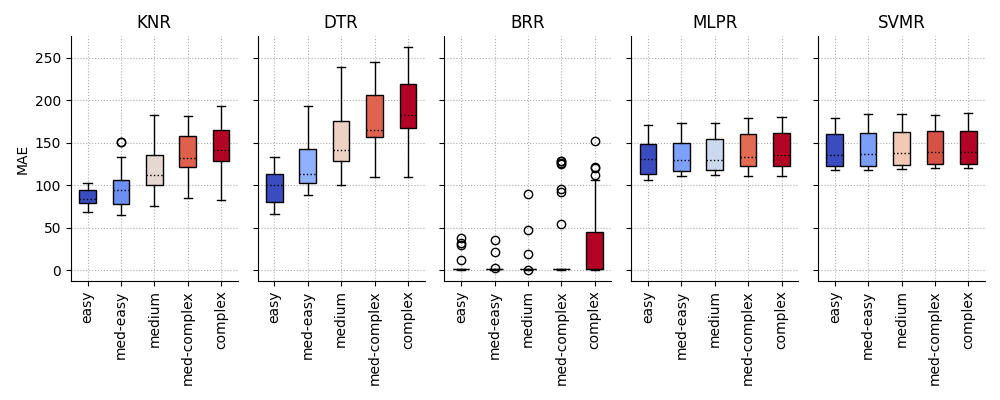
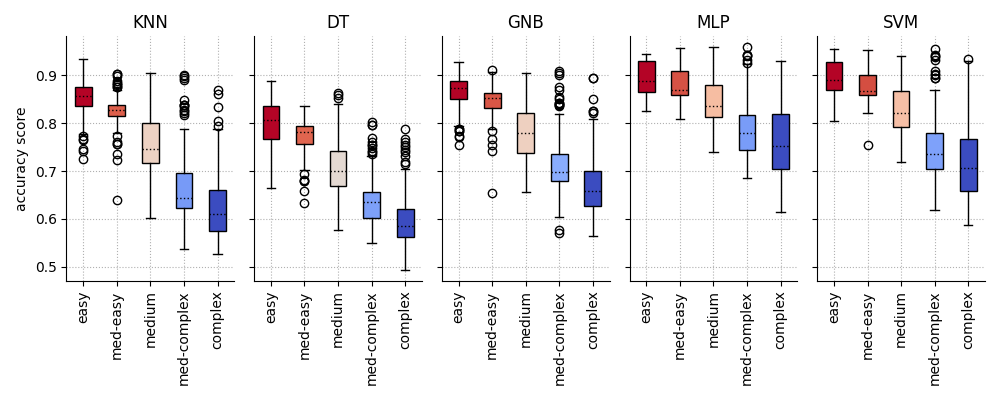
figures clf & reg

diff --git a/e2_combined_clf_vis.py b/e2_combined_clf_vis.py
@@ -17,8 +17,10 @@ for clf_id, clf in enumerate(clfs):
     
     rc = res_clf[:,:,clf_id]
     mrc = np.mean(rc, axis=0)
-    mrc -= 0.5
-    mrc /=0.5
+    # mrc -= 0.5
+    # mrc /=0.5
+    mrc -= np.min(mrc)
+    mrc /= np.max(mrc)
     colors = plt.cm.coolwarm(mrc)
 
     ax[clf_id].set_title('%s' % (clf))
